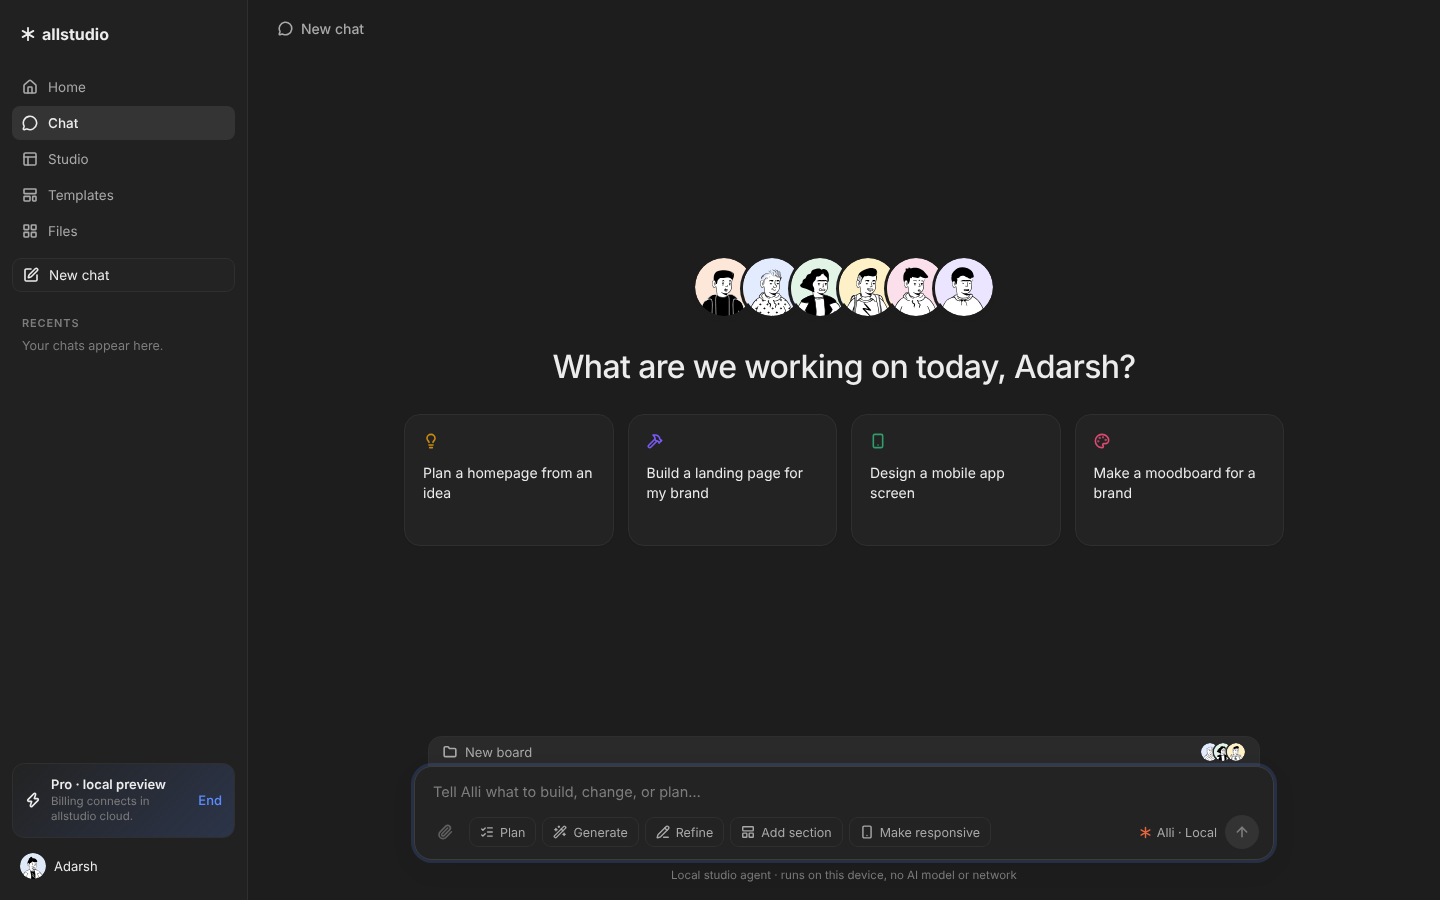
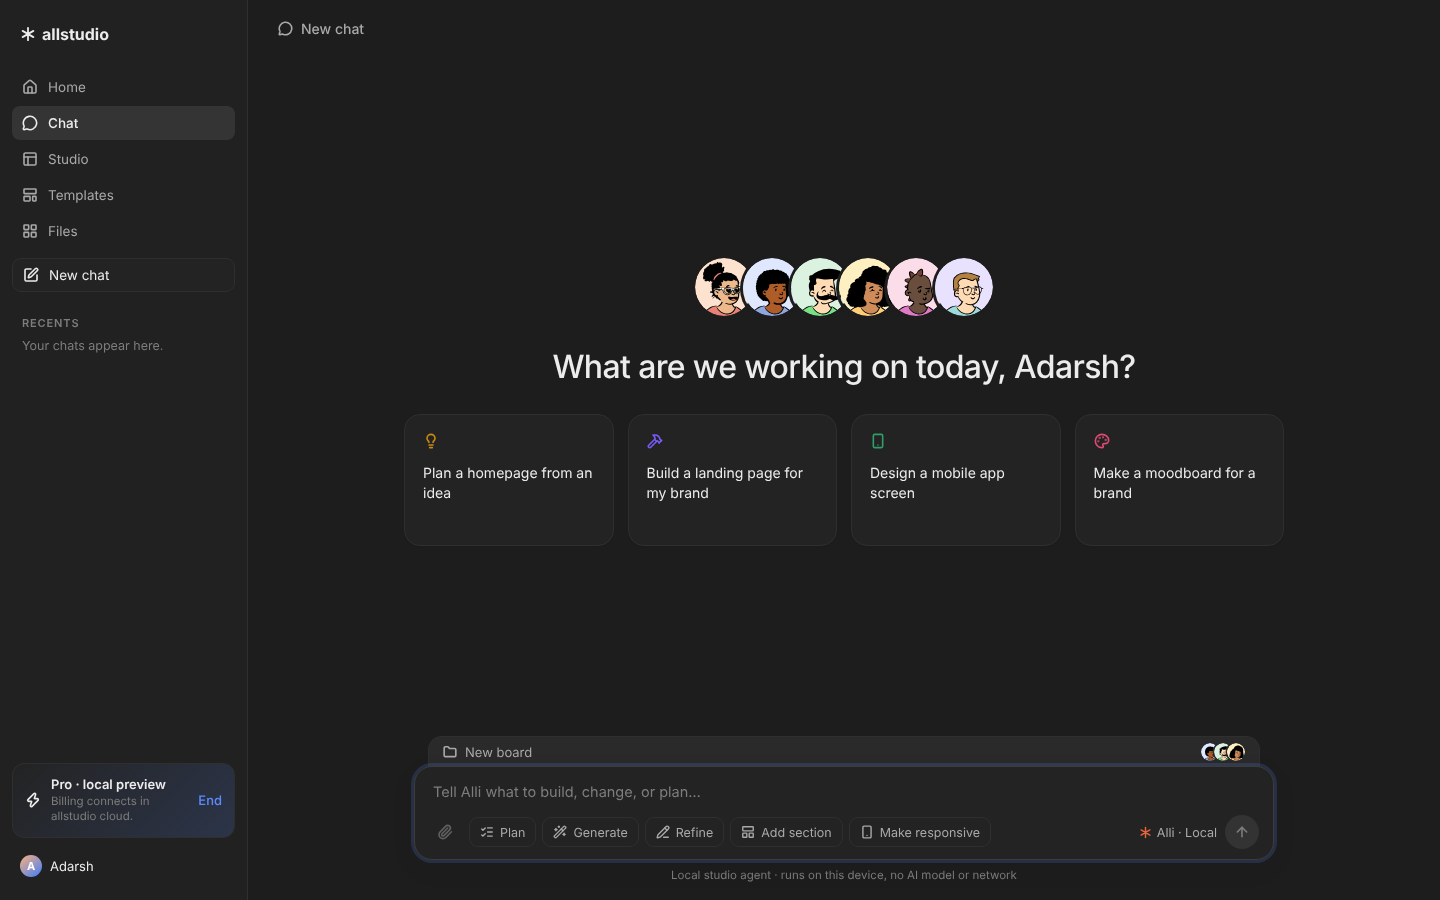
Use Open Peeps characters for chat agents only
Replace the Notionists avatars with Pablo Stanley's Open Peeps (CC0), via
DiceBear. Each agent's look is pinned explicitly, so the cast stays the
same. Users no longer get a character: their messages show no avatar and
the account menu shows an initial. Adds a side-by-side comparison of the
DiceBear styles to the evidence folder, plus an E2E check that only agents
have characters.

Claude-Session: https://claude.ai/code/session_01UfXEq1QcyELL12CKz2pAzw

Changed region(s): [[0.4688, 0.28, 0.6875, 0.3733], [0.0, 0.9333, 0.0625, 0.9956], [0.8438, 0.8089, 0.875, 0.84]]

diff --git a/apps/studio/src/chat/avatars.tsx b/apps/studio/src/chat/avatars.tsx
@@ -1,64 +1,105 @@
 import { createAvatar } from "@dicebear/core";
-import * as notionists from "@dicebear/notionists";
+import * as openPeeps from "@dicebear/open-peeps";
 
 /**
- * Hand-drawn characters from the "Notionists" set by Zoish (CC0 1.0),
- * rendered by DiceBear (MIT, dicebear/dicebear, pinned 9.4.2). They are an
- * openly licensed, independent illustration set, not Notion's own artwork.
- * Everything is generated locally from a seed: no avatar service is called.
+ * Agent characters only. The user never gets a character: user messages show
+ * no avatar and the account menu shows an initial.
+ *
+ * Artwork: "Open Peeps" by Pablo Stanley (CC0 1.0), rendered locally by
+ * DiceBear (MIT, dicebear/dicebear, pinned 9.4.2). Each agent's look is
+ * pinned explicitly (not left to the seed), so the cast stays the same
+ * across library updates. No avatar service is called.
  */
+
+type PeepOptions = Partial<openPeeps.Options>;
 
 export interface Character {
   id: string;
   name: string;
   role: string;
-  seed: string;
   background: string;
+  look: PeepOptions;
 }
 
-/** Alli leads; the others are the helpers shown in the welcome row. */
+/** Alli leads; the others are the specialists shown in the welcome row. */
 export const CAST: Character[] = [
   {
     id: "alli",
     name: "Alli",
     role: "Design agent",
-    seed: "Alli-studio-7",
-    background: "fde7d9",
+    background: "fde2cf",
+    look: {
+      head: ["bun2"],
+      face: ["lovingGrin1"],
+      skinColor: ["edb98a"],
+      clothingColor: ["e78276"],
+      accessories: ["glasses4"],
+      accessoriesProbability: 100,
+    },
   },
   {
     id: "plan",
     name: "Pip",
     role: "Planner",
-    seed: "Pip-planner-2",
-    background: "e3ecff",
+    background: "dfe8ff",
+    look: {
+      head: ["afro"],
+      face: ["smile"],
+      skinColor: ["ae5d29"],
+      clothingColor: ["8fa7df"],
+    },
   },
   {
     id: "layout",
     name: "Lou",
     role: "Layout",
-    seed: "Lou-layout-4",
-    background: "e2f4e6",
+    background: "dcf2e1",
+    look: {
+      head: ["pomp"],
+      face: ["calm"],
+      skinColor: ["ffdbb4"],
+      clothingColor: ["78e185"],
+      facialHair: ["moustache3"],
+      facialHairProbability: 100,
+    },
   },
   {
     id: "type",
     name: "Tess",
     role: "Typography",
-    seed: "Tess-type-9",
-    background: "fff1c7",
+    background: "fff0c2",
+    look: {
+      head: ["longCurly"],
+      face: ["cute"],
+      skinColor: ["d08b5b"],
+      clothingColor: ["ffcf77"],
+    },
   },
   {
     id: "color",
     name: "Remy",
     role: "Color",
-    seed: "Remy-color-3",
-    background: "fbe0ec",
+    background: "fbdce9",
+    look: {
+      head: ["mohawk2"],
+      face: ["cheeky"],
+      skinColor: ["694d3d"],
+      clothingColor: ["e279c7"],
+    },
   },
   {
     id: "review",
     name: "Ode",
     role: "Review",
-    seed: "Ode-review-5",
-    background: "ece5ff",
+    background: "e9e2ff",
+    look: {
+      head: ["grayShort"],
+      face: ["smile"],
+      skinColor: ["ffdbb4"],
+      clothingColor: ["9ddadb"],
+      accessories: ["glasses"],
+      accessoriesProbability: 100,
+    },
   },
 ];
 
@@ -66,49 +107,27 @@ export const ALLI = CAST[0] as Character;
 
 const cache = new Map<string, string>();
 
-export function avatarUri(seed: string, background = "f1efe9"): string {
-  const key = `${seed}|${background}`;
-  const hit = cache.get(key);
+export function characterUri(character: Character): string {
+  const hit = cache.get(character.id);
   if (hit) return hit;
-  const uri = createAvatar(notionists, {
-    seed,
-    backgroundColor: [background],
+  const uri = createAvatar(openPeeps, {
+    seed: character.id,
+    accessoriesProbability: 0,
+    facialHairProbability: 0,
+    maskProbability: 0,
+    ...character.look,
+    backgroundColor: [character.background],
     radius: 50,
-    scale: 105,
+    scale: 86,
+    translateY: 4,
   }).toDataUri();
-  cache.set(key, uri);
+  cache.set(character.id, uri);
   return uri;
-}
-
-export function Avatar({
-  seed,
-  background,
-  size = 32,
-  label,
-  className,
-}: {
-  seed: string;
-  background?: string;
-  size?: number;
-  label?: string;
-  className?: string;
-}) {
-  return (
-    <img
-      className={className ? `ch-avatar ${className}` : "ch-avatar"}
-      src={avatarUri(seed, background)}
-      width={size}
-      height={size}
-      alt={label ?? ""}
-      aria-hidden={label ? undefined : true}
-      draggable={false}
-    />
-  );
 }
 
 export function CharacterAvatar({
   character,
-  size,
+  size = 32,
   className,
 }: {
   character: Character;
@@ -116,12 +135,14 @@ export function CharacterAvatar({
   className?: string;
 }) {
   return (
-    <Avatar
-      seed={character.seed}
-      background={character.background}
-      size={size}
-      label={`${character.name}, ${character.role}`}
-      className={className}
+    // biome-ignore lint/performance/noImgElement: local data URI, not a page image
+    <img
+      className={className ? `ch-avatar ${className}` : "ch-avatar"}
+      src={characterUri(character)}
+      width={size}
+      height={size}
+      alt={`${character.name}, ${character.role}`}
+      draggable={false}
     />
   );
 }

diff --git a/apps/studio/src/chat/chat-page.tsx b/apps/studio/src/chat/chat-page.tsx
@@ -18,7 +18,7 @@ import { Menu, PromptDialog, useToast } from "../ui/controls.tsx";
 import { Icon } from "../ui/icons.tsx";
 import type { ThemePreference } from "../ui/theme.ts";
 import { type ChatAgent, LocalStudioAgent } from "./agent.ts";
-import { ALLI, Avatar, CAST, CharacterAvatar } from "./avatars.tsx";
+import { ALLI, CAST, CharacterAvatar } from "./avatars.tsx";
 import {
   type ActivityItem,
   CHAT_LIMITS,
@@ -214,11 +214,9 @@ function Part({
 
 function Message({
   message,
-  userName,
   onOpen,
 }: {
   message: ChatMessage;
-  userName: string;
   onOpen: (id: string) => void;
 }) {
   if (message.role === "user") {
@@ -232,7 +230,6 @@ function Message({
             ) : null,
           )}
         </div>
-        <Avatar seed={`user-${userName}`} background="dfe9f7" size={30} />
       </article>
     );
   }
@@ -787,7 +784,9 @@ export function ChatPage({
           align="start"
           trigger={
             <>
-              <Avatar seed={`user-${userName}`} background="dfe9f7" size={26} />
+              <span className="avatar small" aria-hidden="true">
+                {(files.settings().displayName || "L")[0]?.toUpperCase()}
+              </span>
               <span>{files.settings().displayName || "Local studio"}</span>
             </>
           }
@@ -895,12 +894,7 @@ export function ChatPage({
                 </div>
               </div>
               {conversation.messages.map((message) => (
-                <Message
-                  key={message.id}
-                  message={message}
-                  userName={userName}
-                  onOpen={open}
-                />
+                <Message key={message.id} message={message} onOpen={open} />
               ))}
             </div>
           </div>

diff --git a/docs/research/studio-ai-chat.md b/docs/research/studio-ai-chat.md
@@ -36,19 +36,20 @@ Build the AI chat feature for paying users from the allstudio design folder, as 
 
 | Repository | Stars | License | Decision |
 |---|---:|---|---|
-| [dicebear/dicebear](https://github.com/dicebear/dicebear) (`@dicebear/core`, `@dicebear/notionists` 9.4.2) | ~10.0k (GitHub page) | MIT code; Notionists art by Zoish **CC0 1.0** | **Adopted.** Hand-drawn characters in the requested style, generated locally from a seed (no avatar service), openly licensed. Only the one style package is installed, not the full collection. |
+| [dicebear/dicebear](https://github.com/dicebear/dicebear) (`@dicebear/core`, `@dicebear/open-peeps` 9.4.2) | ~10.0k (GitHub page) | MIT code; **Open Peeps** art by Pablo Stanley, **CC0 1.0** | **Adopted.** Hand-drawn, artistic agent characters rendered locally (no avatar service). Each agent's head, face, skin and clothing is pinned explicitly, so the cast stays stable. Only the one style package is installed. |
+| DiceBear styles compared (2026-11-02, rendered side by side) | — | Lorelei (CC0), Open Peeps (CC0), Micah, Adventurer, Personas, Dylan, Big Smile (all CC BY 4.0), Notionists (CC0) | The founder rejected Notionists (the first version). Open Peeps was chosen as the most illustrative set that needs no attribution beyond NOTICE. Lorelei (CC0) and Micah (CC BY) are the runner-ups. |
 | [assistant-ui/assistant-ui](https://github.com/assistant-ui/assistant-ui) | not verified (GitHub API blocked in this session) | MIT | Not adopted. Its thread/composer primitives are good, but it assumes its own runtime and styling. Our surface is small and must match the existing chrome. Worth reconsidering when the BYOK streaming runtime lands. |
 | [vercel/ai](https://github.com/vercel/ai) (AI SDK) | not verified (same reason) | Apache-2.0 | Deferred to Phase 5. It is the likely transport for BYOK streaming behind `ChatAgent`; nothing calls a model yet. |
 | [remarkjs/react-markdown](https://github.com/remarkjs/react-markdown) | not verified | MIT | Not needed yet. The local agent emits plain text; add it when model output arrives. |
 
-Notion's own illustrations are proprietary and were not used or imitated. The characters come from the independent CC0 Notionists set.
+**Characters belong to agents only.** The user never gets a character: their messages carry no avatar, and the account menu shows an initial.
 
 ## Founder decisions needed
 
 1. **Entitlement source and gate.** Today the plan is read from local storage, with a visible "Preview Pro locally". Should the public/local build hide chat entirely for free users, keep the preview, or offer BYOK chat for free (PRD P-009) with Pro reserved for the cloud agent?
 2. **Agent naming.** "Alli" and the five helper names and roles are placeholders.
 3. **Conversation storage.** Conversations are in browser localStorage (bounded: 200 chats, 400 messages each). Should desktop store them next to boards on disk (`.allstudio/chats`)?
-4. **Adopting DiceBear** (new runtime dependency, about 870 kB unpacked across two packages, tree-shaken in the bundle). Approve, or replace with commissioned original characters?
+4. **Adopting DiceBear + Open Peeps** (new runtime dependency). Approve it, pick another style from the comparison, or commission original characters.
 
 ## Delivery record
 
